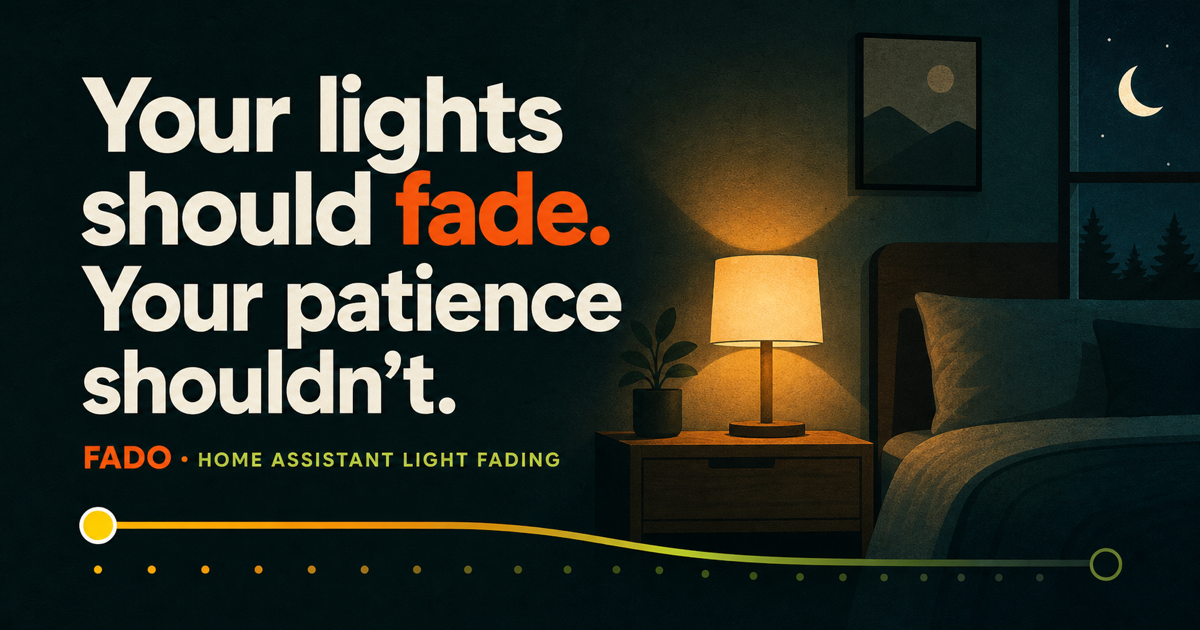
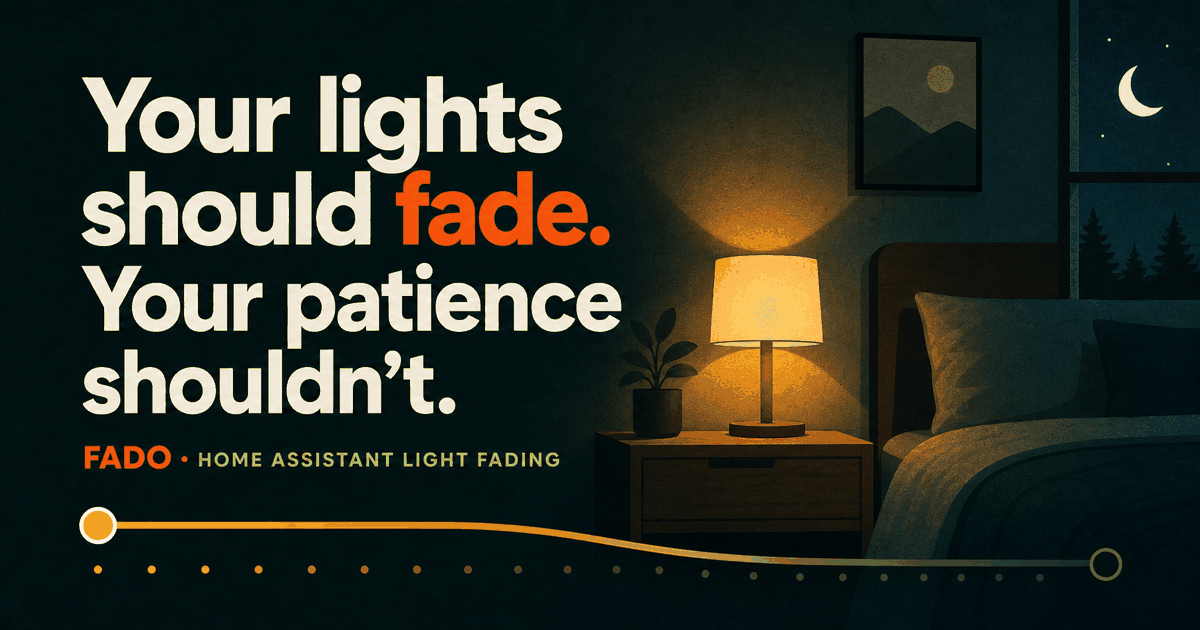
fix(docs): quantize og.png to meet the size budget

diff --git a/demo/UPSTREAM.md b/demo/UPSTREAM.md
@@ -42,17 +42,20 @@ vite.pages.config.ts`, whose entry chain is `github-pages/index.html` →
 4. `github-pages/index.html` — `canonical`, `og:url` and the social images point
    at <https://clintongormley.github.io/ha-fado/>; "unofficial" dropped from the
    descriptions.
-5. `public/og.png` shrunk from 2,194,672 bytes (1731×909) to 947,079 bytes
-   (1200×630): lossless `oxipng -o 4 --strip safe` alone only reached
-   2,063,850 bytes, so the image was also resized to the canonical Open
-   Graph size of 1200×630 with `sips` (near-identical aspect ratio, no
-   distortion) and re-run through `oxipng -o max --zopfli --strip safe`.
-   `github-pages/index.html` declares no `og:image:width`/`height`, so no
-   metadata changes were needed. The result (947,079 bytes) is still above
-   an aspirational 800 KB target — the image has no alpha channel and no
-   stray metadata left to strip, so nothing further can be cut without
-   lossy recompression (palette reduction or JPEG), which was deliberately
-   not applied to avoid visible banding in the social-preview image.
+5. `public/og.png` shrunk from 2,194,672 bytes (1731×909) to 501,908 bytes
+   (1200×630). Losslessly: resized to the canonical Open Graph size of
+   1200×630 with `sips` (near-identical aspect ratio, no distortion) and run
+   through `oxipng -o max --zopfli --strip safe`, reaching a floor of 947,079
+   bytes — still over the 800 KB budget, with no alpha channel or metadata
+   left to strip. Quantized to a 256-colour palette with Floyd–Steinberg
+   dithering (Pillow `Image.quantize(colors=256, method=MEDIANCUT,
+   dither=FLOYDSTEINBERG)`) to avoid banding in the hero's orange/teal
+   gradients, then re-ran `oxipng -o max --zopfli --strip safe` on the
+   quantized file, landing at 501,908 bytes. Verified against the lossless
+   1200×630 version with `PIL.ImageChops.difference`: mean per-channel diff
+   ≈1.3/255, max ≈71/255, confined to gradient dithering noise — no visible
+   banding on inspection. `github-pages/index.html` declares no
+   `og:image:width`/`height`, so no metadata changes were needed.
 
 ## Re-syncing with upstream
 
